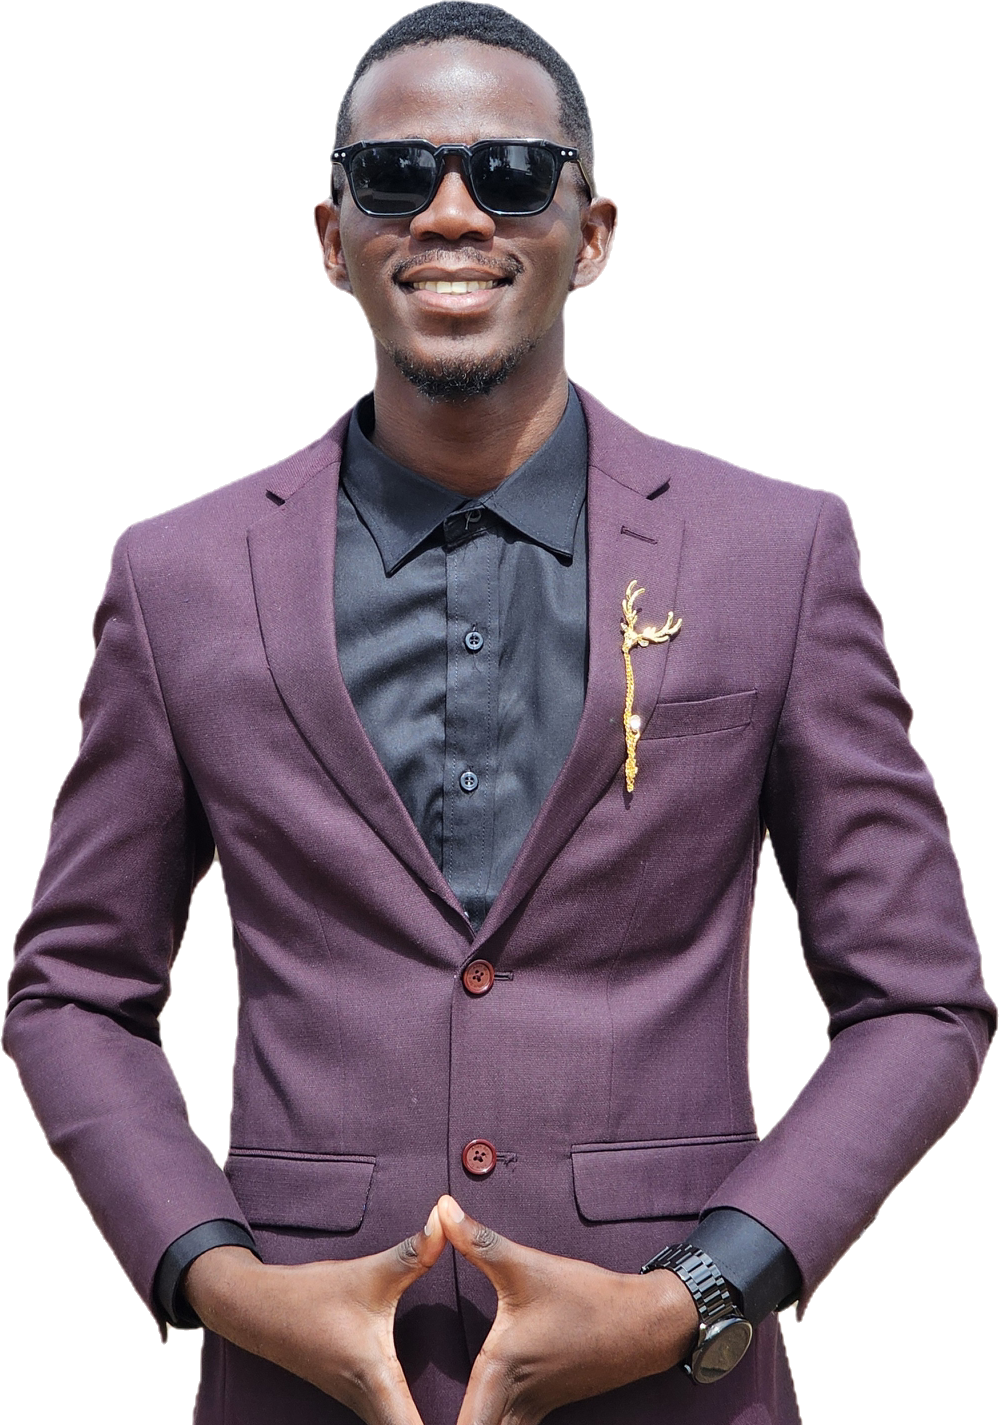
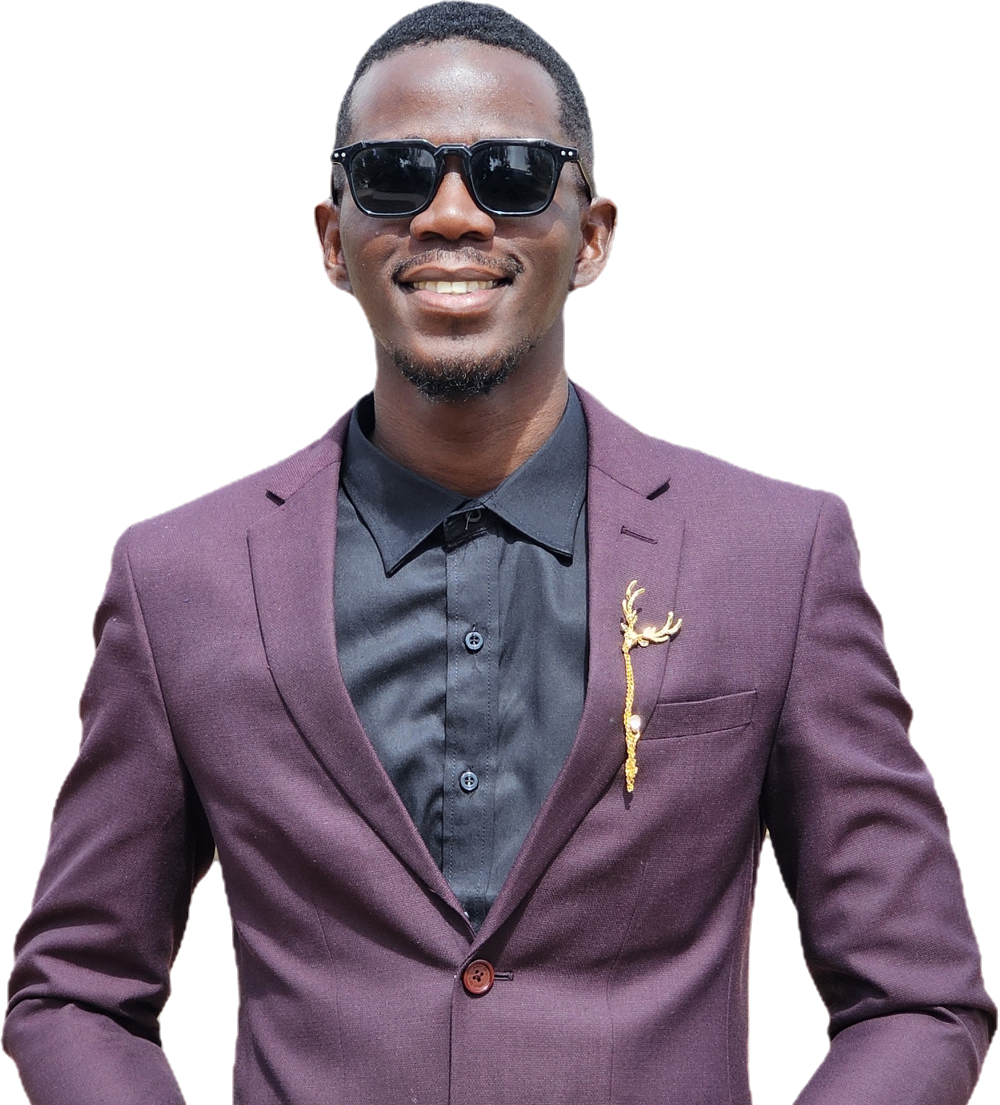
image  centred as the main change

diff --git a/style.css b/style.css
@@ -8,17 +8,18 @@
 
                 /* Main layout styles */
         body {
-            background-color: #ffffff;
+            background-color: #ffdada;
             color: #333;
             line-height: 1.6;
-            /*padding: 0px;*/
+            padding: 20px;
+            max-height: fit-content; /* Allows the body to expand with content */
             max-width: auto; /* Centers the body content */
             width: 100%;
             /*margin: 0 auto; /* Centers the body content */
         }
         
         .container {
-            background-color: white;
+            background-color: rgb(0, 0, 0);
             box-shadow: 0 0 20px rgba(0,0,0,0.1);
             padding: 0px;
             height: auto;
@@ -111,7 +112,7 @@
             font-weight: 700;
             margin-bottom: 10px;
             text-align: center;
-            color: #2c3e50;
+            color: #ffffff;
         }
         
         .header h2 {
@@ -144,6 +145,7 @@
         
             /* Work experience section */
         .experience-grid {
+            padding-top: 50px;
             display: grid;
             grid-template-columns: repeat(auto-fill, minmax(300px, 1fr));
             gap: 25px;
@@ -179,16 +181,7 @@
             grid-template-columns: repeat(4, 1fr);
             gap: 20px;
         }
-
-        .header {
-        position: relative;         /* Creates a stacking context for absolute positioning */
-        height: 300px;              /* Adjust as needed */
-        background-color: #eee;
-        text-align: center;
-        overflow: hidden;           /* Keeps content neatly contained */
-        }
-
-        
+   
         .background-text {
         font-size: 30px;
         color: #000000;
@@ -334,12 +327,30 @@
             gap: 20px;
         }
 
-        .header {
-        position: relative;         /* Creates a stacking context for absolute positioning */
-        height: 300px;              /* Adjust as needed */
-        background-color: #eee;
-        text-align: center;
-        overflow: hidden;           /* Keeps content neatly contained */
+                /* Half Circle */
+        /*.Semi-circle {
+            position: absolute;
+            top: 50%;
+            left: 50%;
+            bottom: 0%;
+            transform: translate(-50%, -50%);
+            width: 500px;
+            height: 250px;
+            background-color: red;
+            border-radius: 250px 250px 0 0; /* Top half of a circle 
+            z-index: 1;
+        }*/
+
+        /* PNG in front of circle */
+        .foreground-png {
+            position: absolute;
+            top: 50%;
+            right: 0%;
+            bottom: 0%;
+            transform: translate(-50%, -50%);
+            z-index: 2; /* Higher layer: image sits on top of text */
+            height: 400px;
+            width: 350px; /* Adjust size to fit your layout */
         }
 
         .background-text {
@@ -349,15 +360,7 @@
         z-index: 1;                 /* Lower layer */
         }
 
-        .foreground-png {
-        position: absolute;
-        top: 50%;
-        right: 0%;
-        transform: translate(-50%, -50%);  /* Perfectly centers image */
-        z-index: 2;                 /* Higher layer: image sits on top of text */
-        height: 300px;
-        width: 250px;               /* Adjust size to fit your layout */
-        }
+
         
             .portfolio-item {
             background: #ecf0f1;

diff --git a/index.HTML b/index.HTML
@@ -41,7 +41,7 @@
 
     <div class = "header">
         <div class = "Semi-circle"></div>
-        <img src ="images/png8.png" alt="" class="foreground-png">
+        <img src ="images/png11.png" alt="" class="foreground-png">
         <div class = "background-circle"></div>
     </div>        
 
